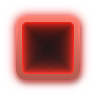
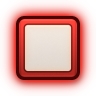
Botones redibujados fieles a la referencia (pozo negro, bisel metalico, lente clara con reflejo, encendido rojo) [skip ci]
Claude-Session: https://claude.ai/code/session_01LmYTuHAKQSU8qhR6nNkVAi

diff --git a/UI_definitiva/generadores/button_gen.py b/UI_definitiva/generadores/button_gen.py
@@ -1,43 +1,77 @@
 import numpy as np
 from PIL import Image
 from scipy.ndimage import gaussian_filter, shift as ndshift
-from fader_gen import rrect, sm, two
+from fader_gen import two, sm
 S=2; BW=64; PADB=16
+def sdf(X,Y,hw,hh,r):       # distancia con signo (px de supersample), negativa dentro
+    qx=np.abs(X)-(hw-r); qy=np.abs(Y)-(hh-r)
+    return np.hypot(np.maximum(qx,0),np.maximum(qy,0))+np.minimum(np.maximum(qx,qy),0)-r
+cov=lambda sd: np.clip(0.5-sd,0,1)
 def draw(on):
     def fn(A):
         h,w=A.shape[:2]; yy,xx=np.mgrid[0:h,0:w]; X=xx-w/2+.5; Y=yy-h/2+.5; Xd=X/S; Yd=Y/S
-        rng=np.random.default_rng(21 if on else 20)
-        m=rrect(X,Y,BW*S/2,BW*S/2,10*S)
+        rng=np.random.default_rng(31 if on else 30)
+        n1=gaussian_filter(rng.normal(0,1,(h,w)),0.8)*2.4+rng.normal(0,1,(h,w))*1.2
+        WELL,BEZ=3.0,6.0                                    # grosor del pozo negro y del bisel (unidades de diseno)
+        sd_o=sdf(X,Y,BW*S/2,BW*S/2,8*S)                    # contorno exterior (pozo)
+        sd_b=sdf(X,Y,(BW/2-WELL)*S,(BW/2-WELL)*S,6*S)       # bisel
+        sd_f=sdf(X,Y,(BW/2-WELL-BEZ)*S,(BW/2-WELL-BEZ)*S,3*S)  # cara
+        m=cov(sd_o)
+        # sombra proyectada abajo-derecha, como las perillas
         sh=gaussian_filter(ndshift(m,(3.2*S,1.0*S),order=1),2.4*S)*0.40
         A[:]=A*(1-sh[...,None])
-        # marco: metal biselado, luz desde arriba (mas claro arriba, mas oscuro abajo)
-        t=np.clip(-Yd/(BW/2),-1,1)                  # +1 arriba, -1 abajo
-        fr=(150+55*t) if not on else (205+35*t)
-        fr=fr+np.exp(-((np.hypot(np.maximum(np.abs(Xd)-(BW/2-10),0),np.maximum(np.abs(Yd)-(BW/2-10),0))+np.minimum(np.maximum(np.abs(Xd)-(BW/2-10),np.abs(Yd)-(BW/2-10)),0)-10+0.8)/0.9)**2)*35*np.clip(0.3+0.7*t,0,1)
-        # cara interior hundida
-        fm=rrect(X,Y,(BW-12)*S/2,(BW-12)*S/2,5*S)
-        fd=np.maximum(0,(-1)*0)
-        qx=np.abs(X)-((BW-12)*S/2-5*S); qy=np.abs(Y)-((BW-12)*S/2-5*S)
-        sd=(np.hypot(np.maximum(qx,0),np.maximum(qy,0))+np.minimum(np.maximum(qx,qy),0)-5*S)/S   # <0 dentro; distancia al borde de la cara en px
-        dist=np.clip(-sd,0,None)
-        face=16+10*sm(-t,-1,1)+gaussian_filter(rng.normal(0,1,(h,w)),0.8)*3.0+rng.normal(0,1,(h,w))*1.5
-        face=face-8*np.exp(-(dist/2.2)**2)*np.clip(t,0,1)        # sombra interior arriba (esta hundida)
-        face=face+10*np.exp(-((dist-0.8)/0.8)**2)*np.clip(-t,0,1)  # filo claro abajo
-        fr=np.clip(fr+gaussian_filter(rng.normal(0,1,(h,w)),0.7)*1.4,0,255); face=np.clip(face,0,255)
-        if on:   # encendido: rojo. El marco se tine y la cara se ilumina desde los bordes
-            e1=np.exp(-dist/5.5); e2=np.exp(-dist/16)
-            facec=np.stack([np.clip(face+185*e1+60*e2,0,255),np.clip(face+22*e1+4*e2,0,255),np.clip(face+14*e1+2*e2,0,255)],-1)
-            frc=np.stack([np.clip(fr*1.0+10,0,255),fr*0.52,fr*0.46],-1)
+        if on:
+            halo=np.clip(gaussian_filter(m,6.5*S)*2.1,0,1)*(1-m)*0.95
+            A[:]=A*(1-halo[...,None])+np.array([235,38,28.])[None,None,:]*halo[...,None]
+        t=-Yd/(BW/2)                                         # +1 arriba, -1 abajo
+        u=Xd/(BW/2)
+        # --- pozo: negro (rojizo si esta encendido)
+        well=np.stack([np.full((h,w),9.)+ (30 if on else 0)*0, np.full((h,w),9.), np.full((h,w),9.)],-1)
+        if on: well=np.stack([np.full((h,w),70.),np.full((h,w),6.),np.full((h,w),5.)],-1)
+        well=well+n1[...,None]*0.6
+        col=well
+        # --- bisel metalico
+        db=np.clip(-sd_b/S,0,None)                           # distancia hacia adentro desde el borde del bisel
+        Lb=150+50*t-12*np.abs(u)*0                           # claro arriba, oscuro abajo
+        Lb=Lb+70*np.exp(-((Yd-(-(BW/2-WELL)+1.0))/0.9)**2)*sm(-sd_b/S,0,1)   # linea de luz superior
+        Lb=Lb+22*np.exp(-((Yd-((BW/2-WELL)-1.2))/0.9)**2)*sm(-sd_b/S,0,1)    # reflejo fino inferior
+        Lb=Lb-26*np.exp(-((np.abs(Xd)-((BW/2-WELL)-1.2))/1.1)**2)             # laterales algo mas oscuros
+        Lb=Lb+n1
+        if on:
+            bez=np.stack([np.clip(Lb*1.22+38,0,255),Lb*0.36,Lb*0.30],-1)
         else:
-            facec=np.stack([face]*3,-1); frc=np.stack([fr]*3,-1)
-        col=frc*(1-fm[...,None])+facec*fm[...,None]
-        if on:   # halo rojo hacia afuera (se ve sobre el fondo blanco)
-            outside=1-m; halo=np.clip(gaussian_filter(m,5.0*S)*1.6,0,1)*outside*0.75
-            A[:]=A*(1-halo[...,None])+np.array([235,40,30.])[None,None,:]*halo[...,None]
-        A[:]=A*(1-m[...,None])+col*m[...,None]
+            bez=np.stack([Lb]*3,-1)
+        mb=cov(sd_b)[...,None]
+        col=col*(1-mb)+bez*mb
+        # linea oscura entre bisel y cara
+        df=np.clip(-sd_f/S,0,None)
+        ring=np.exp(-((sd_f/S-0.9)/0.55)**2)*(sd_f/S>-0.5)
+        col=col*(1-0.65*ring[...,None]*mb)
+        # --- cara (lente)
+        mf=cov(sd_f)[...,None]
+        tf=-Yd/((BW/2)-WELL-BEZ)                             # -1..1 dentro de la cara
+        xf=Xd/((BW/2)-WELL-BEZ)
+        if on:
+            base=240-16*sm(-tf,-1,1)                         # blanco calido, algo mas bajo abajo
+            vig=np.exp(-(np.clip(-sd_f/S,0,None)/3.0))      # borde con tinte rojo
+            Lf=base+n1*0.5
+            face=np.stack([Lf,Lf*0.965-14*vig,Lf*0.93-30*vig],-1)
+            face[...,0]=np.minimum(face[...,0]+8*vig,255)
+        else:
+            base=208-22*sm(-tf,-1,1)
+            diag=(-tf)-(0.35-0.55*xf)                        # reflejo diagonal: por debajo de la linea queda mas oscuro
+            base=base-34*sm(diag,-0.07,0.07)
+            vig=np.exp(-(np.clip(-sd_f/S,0,None)/3.2))
+            Lf=base-48*vig+n1*0.5
+            face=np.stack([Lf]*3,-1)
+        # filo claro arriba dentro de la cara y sombra a los costados
+        topl=np.exp(-((Yd-(-(BW/2-WELL-BEZ)+1.3))/0.8)**2)*sm(-sd_f/S,0,1)
+        face=face+(40 if not on else 14)*topl[...,None]*np.array([1,1,1.0])
+        col=col*(1-mf)+face*mf
+        A[:]=A*(1-m[...,None])+np.clip(col,0,255)*m[...,None]
     n=(BW+2*PADB)*S
     return two(fn,n,n)
 if __name__=='__main__':
     off=draw(False); on=draw(True); off.save('btn_off.png'); on.save('btn_on.png')
-    bg=Image.new('RGBA',(300,120),(255,255,255,255)); bg.alpha_composite(off,(30,10)); bg.alpha_composite(on,(170,10))
-    bg.resize((900,360),Image.LANCZOS).save('btn_prev.png')
+    bg=Image.new('RGBA',(300,130),(255,255,255,255)); bg.alpha_composite(off,(20,12)); bg.alpha_composite(on,(180,12))
+    bg.resize((900,390),Image.LANCZOS).save('btn_prev.png')
